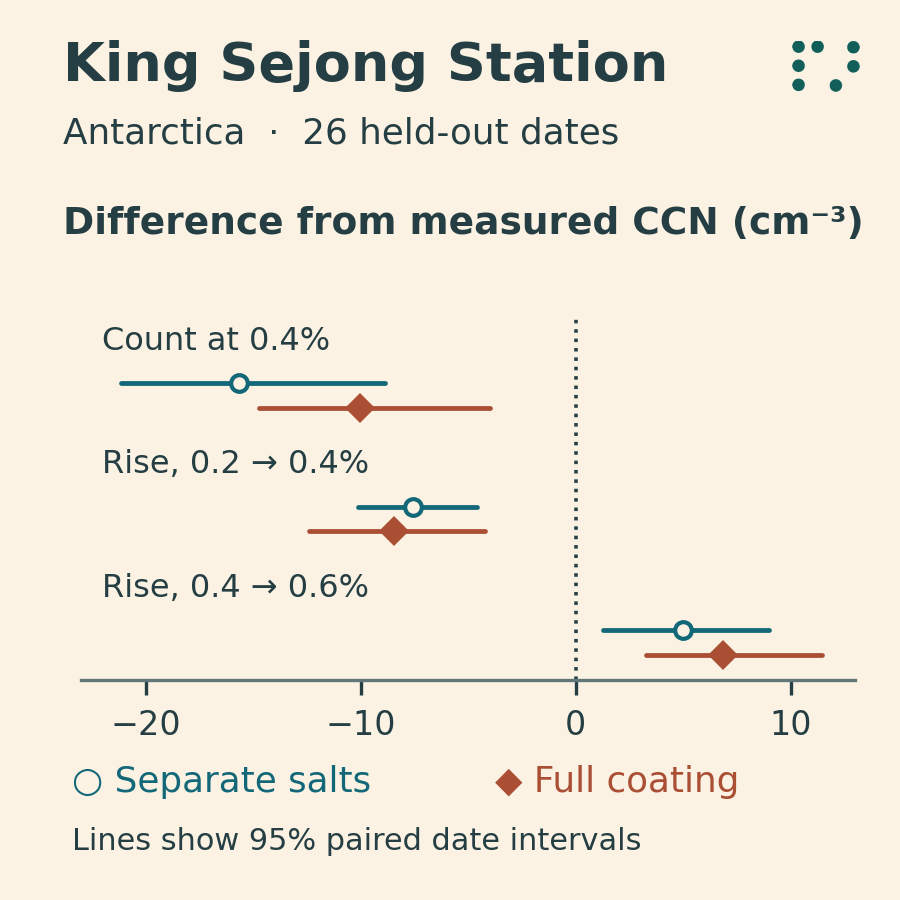
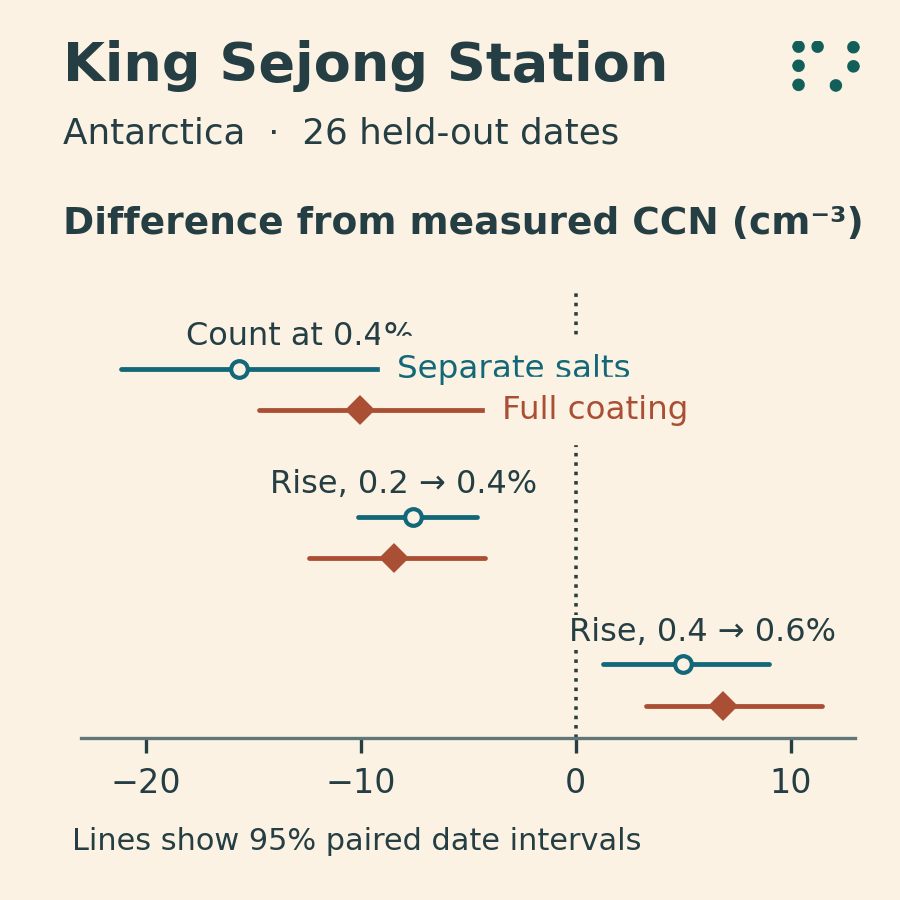
docs: label Antarctic TOC intervals directly

diff --git a/scripts/antarctic_ccn/toc.py b/scripts/antarctic_ccn/toc.py
@@ -29,7 +29,7 @@ def render():
             weight="bold",
             fontsize=9,
         )
-        ax = fig.add_axes([0.09, 0.245, 0.86, 0.405])
+        ax = fig.add_axes([0.09, 0.18, 0.86, 0.50])
         ax.axvline(0, ls=":", lw=0.85, color=INK)
         for i, (key, label) in enumerate(
             [
@@ -39,12 +39,33 @@ def render():
             ]
         ):
             y = 2 - i
-            ax.text(-22, y + 0.27, label, fontsize=7.7)
-            for j, (mod, color, marker) in enumerate(
-                [("salt", TEAL, "o"), ("maximum", RUST, "D")]
+            pair_center = (
+                df.xs(key, level="metric")
+                .loc[["salt", "maximum"], "mean"]
+                .mean()
+            )
+            ax.annotate(
+                label,
+                (pair_center, y),
+                xytext=(0, 4),
+                textcoords="offset points",
+                ha="center",
+                va="bottom",
+                fontsize=7.7,
+                bbox={
+                    "facecolor": fig.get_facecolor(),
+                    "edgecolor": "none",
+                    "pad": 0.3,
+                },
+            )
+            for j, (mod, name, color, marker) in enumerate(
+                [
+                    ("salt", "Separate salts", TEAL, "o"),
+                    ("maximum", "Full coating", RUST, "D"),
+                ]
             ):
                 r = df.loc[mod, key]
-                pos = y - 0.20 * j
+                pos = y - 0.28 * j
                 ax.plot([r.lo95, r.hi95], [pos, pos], color=color, lw=1.15)
                 ax.plot(
                     r["mean"],
@@ -54,17 +75,26 @@ def render():
                     mfc=color if j else "#fbf2e3",
                     mec=color,
                 )
+                if i == 0:
+                    ax.annotate(
+                        name,
+                        (r.hi95, pos),
+                        xytext=(3, 0),
+                        textcoords="offset points",
+                        va="center",
+                        color=color,
+                        fontsize=7.8,
+                        backgroundcolor=fig.get_facecolor(),
+                    )
         ax.set(
             xlim=(-23, 13),
-            ylim=(-0.40, 2.55),
+            ylim=(-0.50, 2.55),
             xticks=[-20, -10, 0, 10],
             yticks=[],
         )
         ax.grid(False)
         for side in ["left", "top", "right"]:
             ax.spines[side].set_visible(False)
-        fig.text(0.08, 0.12, "○ Separate salts", color=TEAL, fontsize=8.6)
-        fig.text(0.55, 0.12, "◆ Full coating", color=RUST, fontsize=8.6)
         fig.text(
             0.08, 0.055, "Lines show 95% paired date intervals", fontsize=7.3
         )
